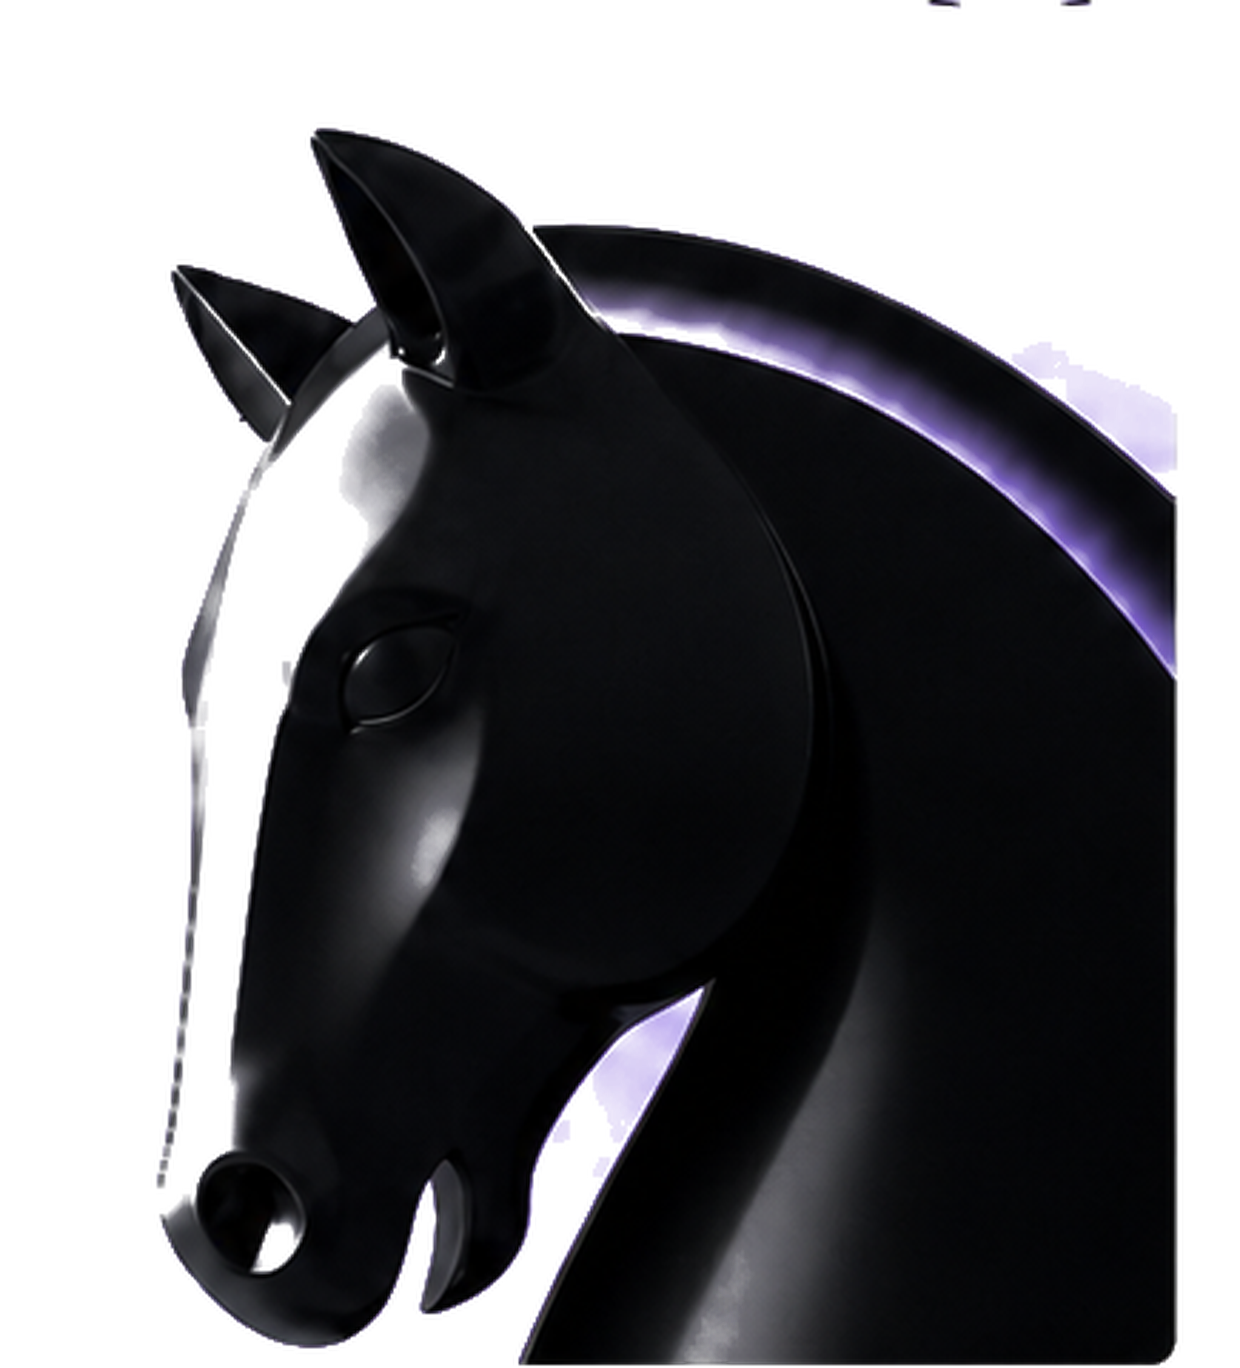
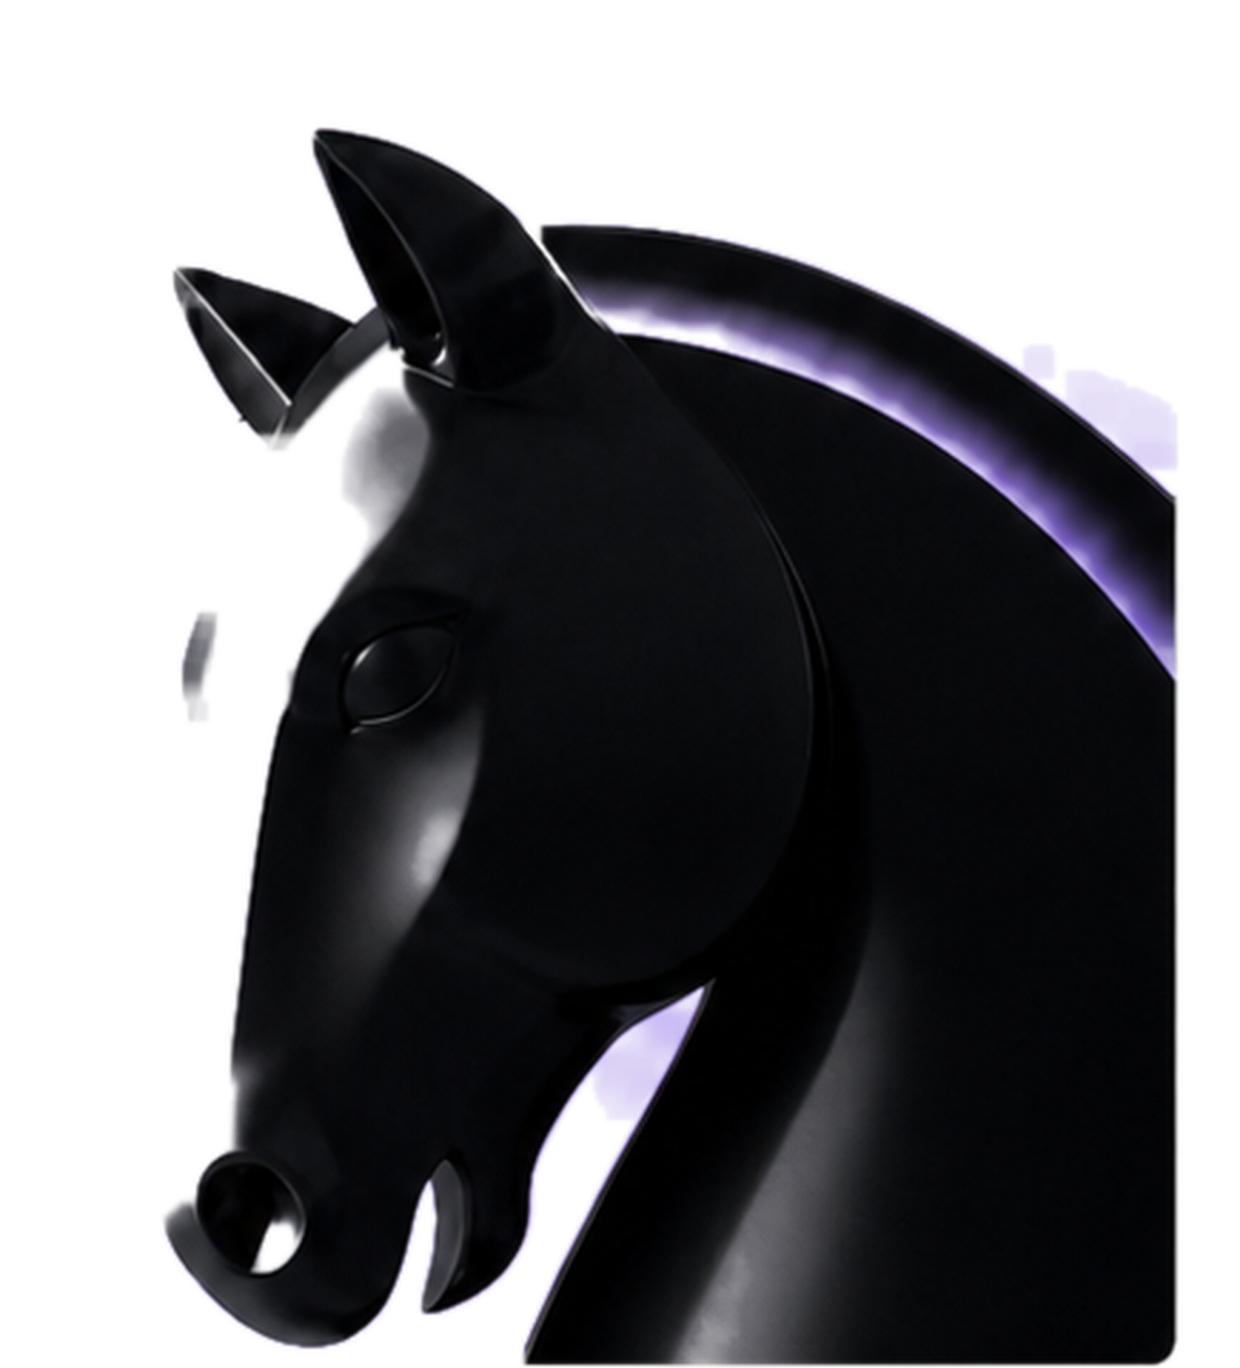
Knight: aggressive cleanup of stray dots/specks

diff --git a/index.html b/index.html
@@ -7,7 +7,7 @@
   <link rel="preconnect" href="https://fonts.googleapis.com">
   <link rel="preconnect" href="https://fonts.gstatic.com" crossorigin>
   <link href="https://fonts.googleapis.com/css2?family=Archivo+Black&family=Archivo:wght@400;500;600;700&family=JetBrains+Mono:wght@400&display=swap" rel="stylesheet">
-  <link rel="stylesheet" href="styles/hero.css?v=43" />
+  <link rel="stylesheet" href="styles/hero.css?v=44" />
 </head>
 <body>
 
@@ -18,7 +18,7 @@
     <circle cx="250" cy="250" r="248" fill="none" stroke="#0A0A0A" stroke-width="1.25"/>
     <circle cx="250" cy="250" r="184" fill="none" stroke="#6E3CFF"  stroke-width="1"/>
   </svg>
-  <img class="hero__knight" src="assets/hero/chess-knight.png?v=27" alt="" aria-hidden="true"/>
+  <img class="hero__knight" src="assets/hero/chess-knight.png?v=44" alt="" aria-hidden="true"/>
 
   <div class="hero__topbar">
     <a class="hero__logo" href="/">SNIR<span class="dot"></span></a>
